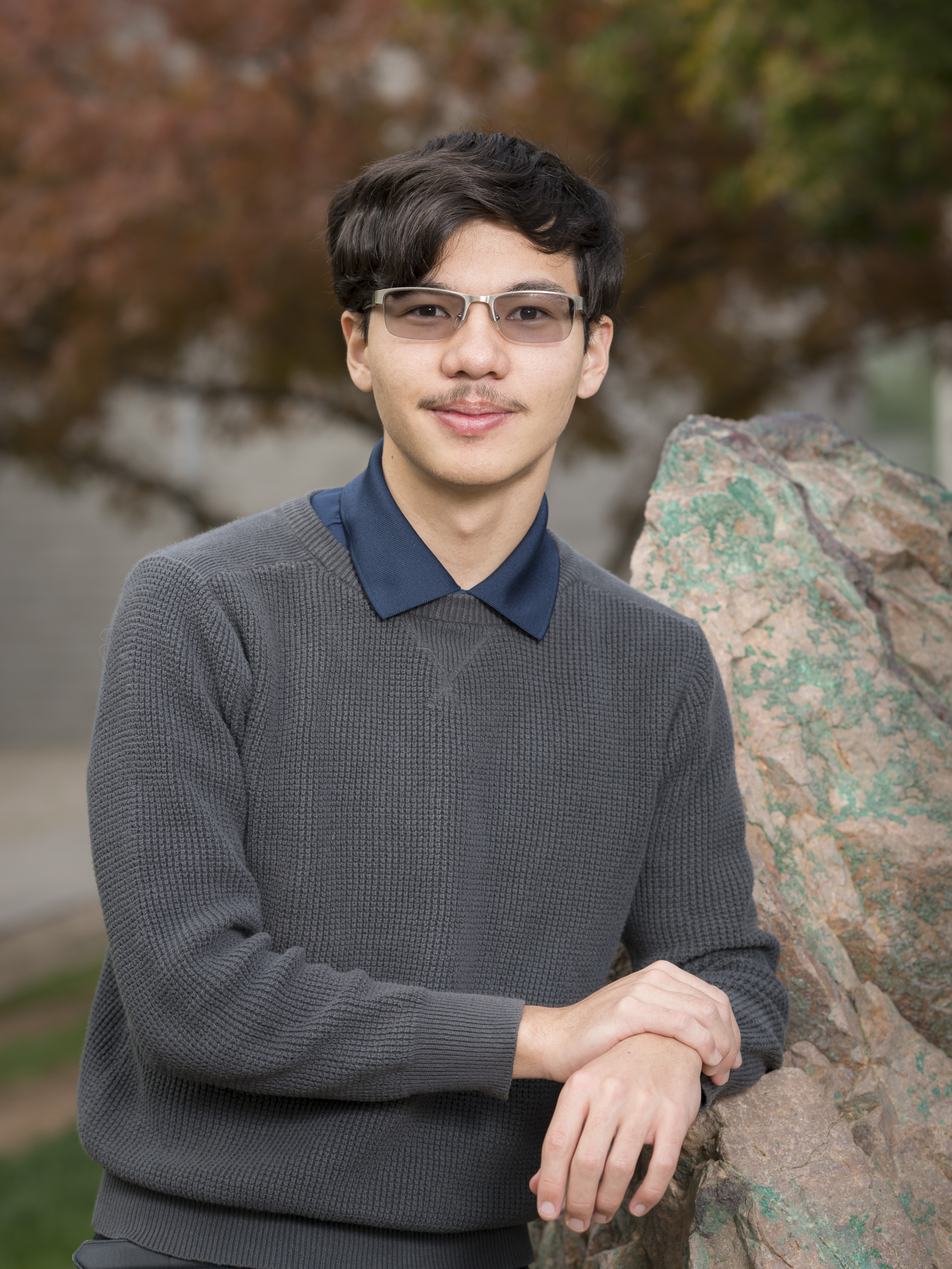
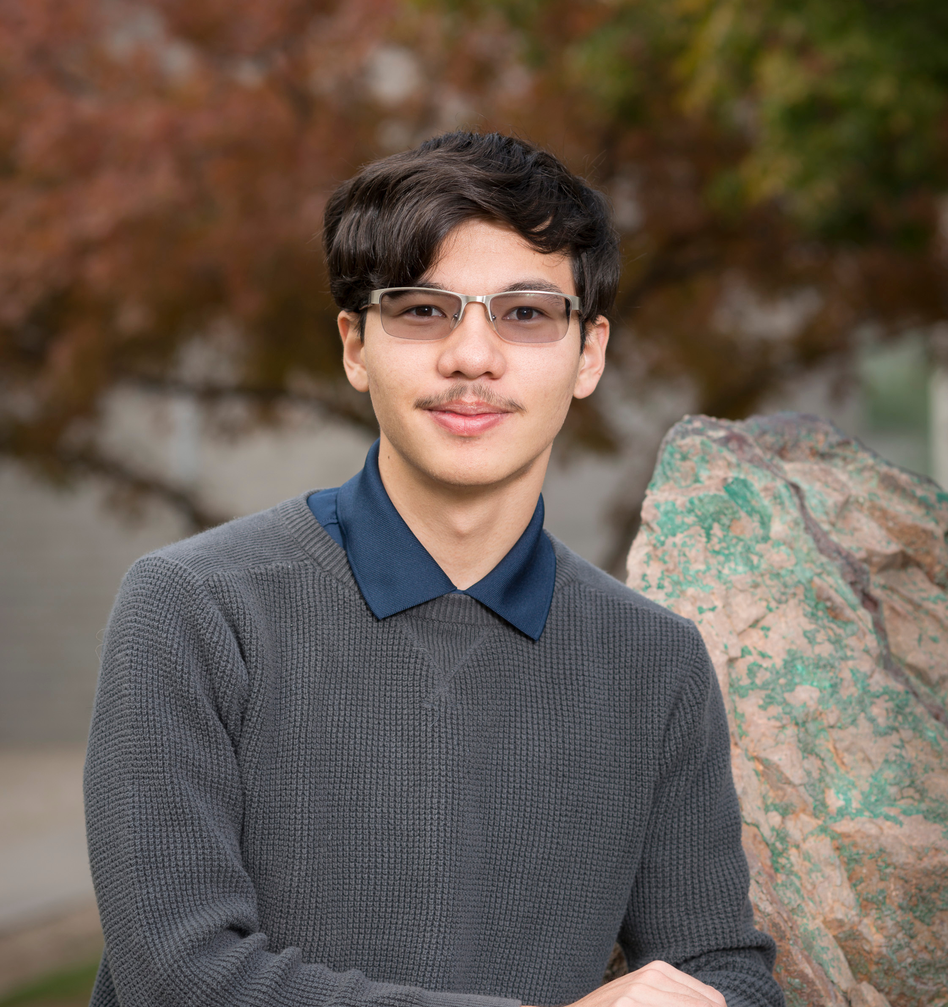
Updated Josh and Lena bio/pics

diff --git a/about-us.html b/about-us.html
@@ -363,14 +363,14 @@ body {
                     <p style="color:white"><br>Brian is currently a sophomore in Aerospace Engineering. As Intro-Team Lead, Brian leads the design and 
                        construction of a level one high-powered rocket. He also serves as a mentor to newer members of the organization by teaching members 
                        practical engineering skills and the basics of rocketry. Brian is also an active member of the Liquid Propulsion Research team and is involved 
-                       with several rocketry clubs outside of SDR including SEDS-ASU and Helios Rocketry</p>
+                       with several rocketry clubs outside of SDR including SEDS-ASU and Helios Rocketry.</p>
                 </div>
             </div>
             <div class="row">
                 <div class="col-lg-2 col-sm-4">
                     <div class="trainer-item">
                         <div class="ti-pic">
-                            <img src="img/trainer/lena.jpg" alt="">
+                            <img src="img/trainer/lena3.jpg" alt="">
                             <div class="ti-links">
                                 <a href="https://www.linkedin.com/in/lena-basmadjian-a98506212/"><i class="fa fa-linkedin"></i></a>
                                 <a href="mailto:lbasmadj@asu.edu"><i class="fa fa-envelope"></i></a>
@@ -387,9 +387,30 @@ body {
                        free time.  </p>
                 </div>
             </div>
+
+            <!-- Social Media Manager -->
+            <div class="row">
+                <div class="col-lg-2 col-sm-4">
+                    <div class="trainer-item">
+                        <div class="ti-pic">
+                            <img src="img/trainer/josh.jpg" alt="">
+                            <div class="ti-links">
+                                <a href="https://www.linkedin.com/in/josh-lermayer-1a63a5201/"><i class="fa fa-linkedin"></i></a>
+                                <a href="mailto:jlermaye@asu.edu"><i class="fa fa-envelope"></i></a>
+                            </div>
+                        </div>
+                    </div>
+                </div>
+                <div class="col-lg-10 col-sm-8">
+                    <h4 style="color:white">Social Media Manager</h4>
+                    <h3 style="color:white">Josh Lermayer</h3>
+                    <p style="color:white"><br> Josh is currently a sophomore in Aerospace Engineering with a minor in Applied Computing. As Social Media Manager, Josh                       is responsible for sharing the activities of Sun Devil Rocketry on the club's Social Media accounts. Additionally, Josh is an active member of 
+                       SDR's Hybrid Propulsion Research team. Outside of SDR, Josh is involved in Ostem, EPICS, and Underwater Robotics. </p>
+                </div>
+            </div>
         </div>
     </section>
-    <!-- Trainer Section End -->
+    <!-- Officers Section End -->
 
 
 
